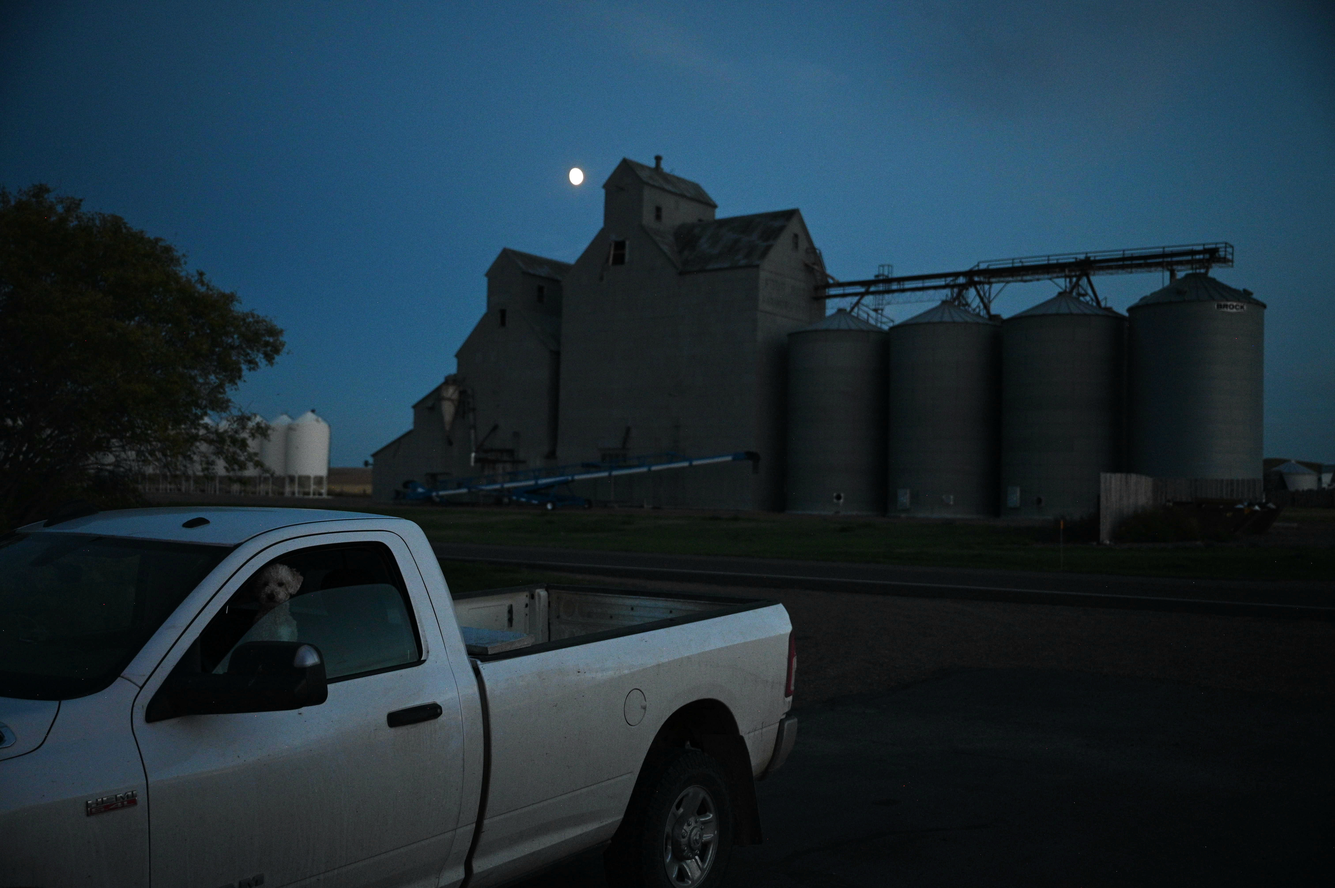
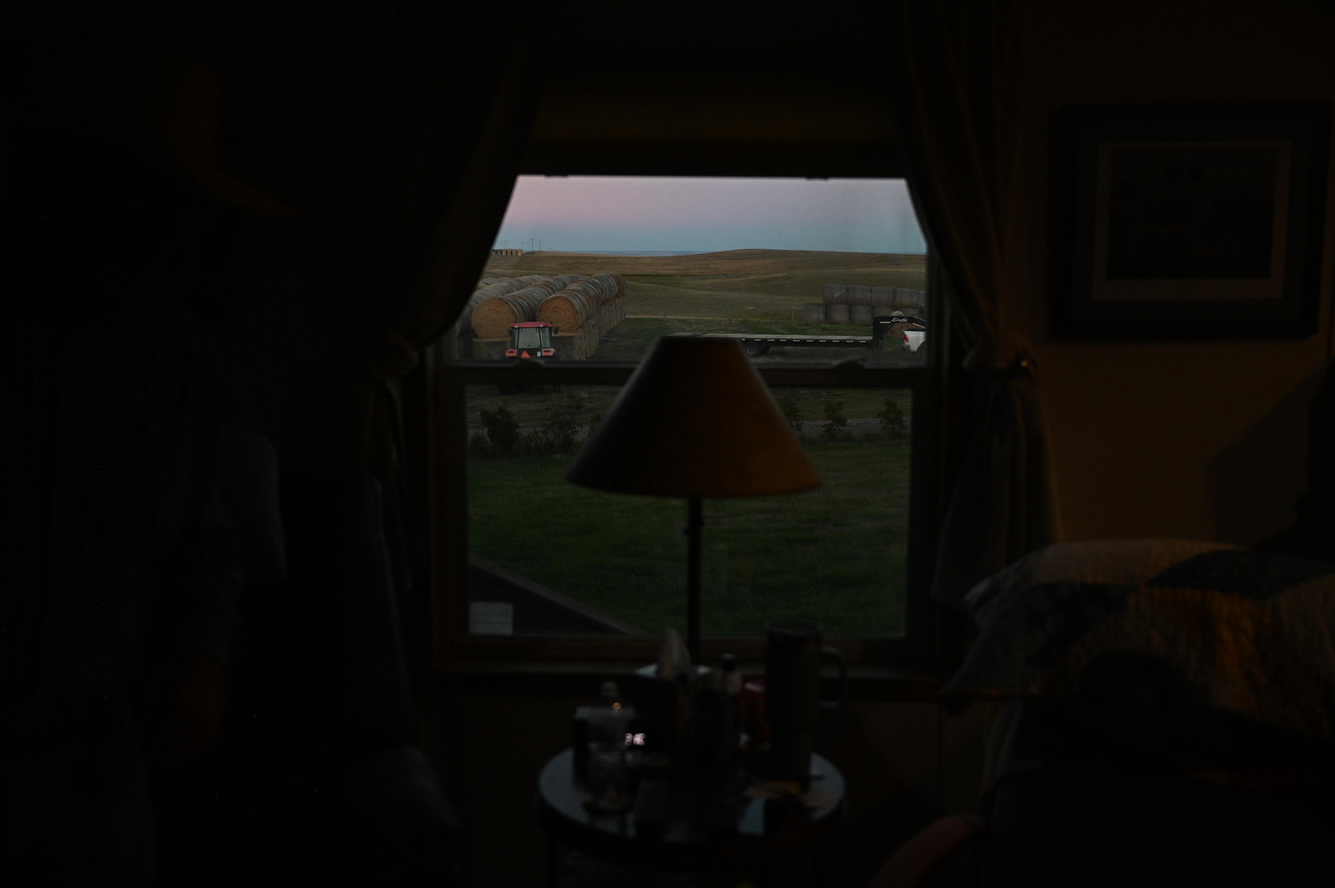
fixed duplicate photo

diff --git a/tests/interactive.spec.js b/tests/interactive.spec.js
@@ -277,7 +277,7 @@ for (const [width, height] of [[1200, 700], [1024, 768], [820, 1180], [768, 1024
     await page.getByRole('button', { name: 'Next photograph' }).click();
     await expect(page.locator('#photo-count')).toHaveText('2 / 4');
     await expect(page.locator('#photo-frame img')).toBeVisible();
-    await expect(page.locator('#photo-frame img')).toHaveCSS('object-fit', 'cover');
+    await expect(page.locator('#photo-frame img')).toHaveCSS('object-fit', width < 900 ? 'contain' : 'cover');
     await page.screenshot({ path: testInfo.outputPath('selected.png') });
   });
 }
@@ -426,7 +426,7 @@ for (const width of [390, 1200]) {
     await page.getByRole('button', { name: 'Next photograph' }).click();
     await expect(expand).toBeVisible();
     expect(await page.locator('.viewer-header').boundingBox()).toEqual(header);
-    expect(await page.locator('#photo-frame').boundingBox()).toEqual(frame);
+    if (width >= 900) expect(await page.locator('#photo-frame').boundingBox()).toEqual(frame);
     await selectProfile(page, 'demo-d');
     await expect(expand).toBeHidden();
   });
@@ -590,5 +590,38 @@ for (const width of [390, 1200]) {
     await expect(dialog.locator('img')).toBeVisible();
     await expect(dialog.locator('img')).toHaveAttribute('src', people.find(person => person.id === 'kleeman').photos[1].fullSrc);
     expect(requests.filter(url => url.includes('-full.webp'))).toHaveLength(2);
+  });
+}
+
+
+for (const [width, height] of [[390, 844], [320, 460], [820, 1180]]) {
+  test(`mobile landscape previews show the whole image at ${width}×${height}`, async ({ page }, testInfo) => {
+    await page.setViewportSize({ width, height });
+    await page.unroute('**/src/people.js');
+    await page.unroute('**/data/people.geojson');
+    await openMap(page);
+    await selectProfile(page, 'kleeman');
+    await expect(page.locator('#photo-frame img')).toBeVisible();
+    const header = await page.locator('.viewer-header').boundingBox();
+    const map = await page.locator('.map-viewport').boundingBox();
+    await page.getByRole('button', { name: 'Next photograph', exact: true }).click();
+    const img = page.locator('#photo-frame img');
+    await expect(img).toBeVisible();
+    await expect(img).toHaveCSS('object-fit', 'contain');
+    const dimensions = await img.evaluate(image => {
+      const frame = image.closest('.photo-frame').getBoundingClientRect();
+      const content = document.querySelector('.viewer-content').getBoundingClientRect();
+      const expectedHeight = Math.min(frame.width * image.naturalHeight / image.naturalWidth, Math.max(80, content.height - 56));
+      return { actual: frame.height, expected: expectedHeight, fits: frame.bottom <= content.bottom };
+    });
+    expect(dimensions.actual).toBeCloseTo(dimensions.expected, 0);
+    expect(dimensions.fits).toBe(true);
+    expect(await page.locator('.viewer-header').boundingBox()).toEqual(header);
+    expect(await page.locator('.map-viewport').boundingBox()).toEqual(map);
+    await expect(page.getByRole('button', { name: 'Next photograph', exact: true })).toBeInViewport();
+    await page.screenshot({ path: testInfo.outputPath('landscape-preview.png') });
+    await page.getByRole('button', { name: 'Previous photograph', exact: true }).click();
+    await expect(img).toBeVisible();
+    await expect(page.locator('#photo-frame')).not.toHaveClass(/is-landscape/);
   });
 }

diff --git a/src/gallery.js b/src/gallery.js
@@ -84,12 +84,19 @@ export function createGallery(viewer) {
     element.hidden = !value;
   }
 
+  function setPreviewShape(width, height) {
+    const landscape = width > 0 && height > 0 && width >= height;
+    frame.classList.toggle('is-landscape', landscape);
+    frame.style.setProperty('--photo-aspect-ratio', landscape ? `${width} / ${height}` : '1');
+  }
+
   function render() {
     expand.hidden = true;
     const currentRevision = ++revision;
     frame.querySelector('img')?.remove();
     adjacentImages = [];
     const photo = photos[index];
+    setPreviewShape(photo?.width, photo?.height);
     controls.hidden = photos.length < 2;
     count.textContent = photos.length > 1 ? `${index + 1} / ${photos.length}` : '';
     optionalText(caption, photo?.caption);
@@ -109,6 +116,7 @@ export function createGallery(viewer) {
       frame.setAttribute('aria-busy', 'false');
       message.hidden = true;
       img.hidden = false;
+      setPreviewShape(img.naturalWidth, img.naturalHeight);
       img.classList.toggle('is-landscape', img.naturalWidth >= img.naturalHeight);
       expand.hidden = false;
 

diff --git a/src/style.css b/src/style.css
@@ -104,8 +104,16 @@ figcaption { padding: 16px 20px; font-size: var(--panel-caption-size); line-heig
   .viewer h2 { font-size: 23px; line-height: 1.15; }
   .person-location { margin-top: 3px; line-height: 1.3; }
   /* Share extra screen height between the map and the scrollable photo panel. */
-  .viewer-content { scrollbar-gutter: auto; }
+  .viewer-content { scrollbar-gutter: auto; container-type: size; }
   .photo-frame { height: var(--photo-height); }
+  /* Fit the complete landscape image, reserving room for the carousel controls.
+     Container height follows the panel, not the entire phone viewport. */
+  .photo-frame.is-landscape {
+    height: auto;
+    aspect-ratio: var(--photo-aspect-ratio);
+    max-height: max(80px, calc(100cqh - 56px));
+  }
+  .photo-frame.is-landscape img { position: absolute; inset: 0; object-fit: contain; }
   .photo-message { padding: 12px; }
   .carousel-controls { padding: 3px 12px; }
   figcaption { padding: 10px 14px; }

diff --git a/README.md b/README.md
@@ -189,7 +189,7 @@ export const people = [{
 }];
 ```
 
-Photograph URLs resolve relative to the document, so `./photos/...` works from `/pipeline/index.html`. Put files directly in `public/photos/`; Vite copies this directory to `dist/photos/`. Use descriptive alt text for every image. Preprocess newsroom photos to approximately 1,200–1,600 pixels on the long edge, preferably WebP. Landscape previews fill the frame with a centered crop; portrait previews fit without cropping and are centered with blank space on either side. The enlarged viewer always shows the full image; portrait and landscape photographs both work without changing the header dimensions. The expand control opens a keyboard-accessible viewer covering the entire interactive, including inside an iframe, without requiring fullscreen permission. Use the enlarged viewer’s arrows or keyboard Left/Right keys to move through photographs, wrapping at either end. Its counter, caption, and underlying preview stay synchronized. Close with × or Escape to return to the same photograph. There is no transformation service.
+Photograph URLs resolve relative to the document, so `./photos/...` works from `/pipeline/index.html`. Put files directly in `public/photos/`; Vite copies this directory to `dist/photos/`. Use descriptive alt text for every image. Preprocess newsroom photos to approximately 1,200–1,600 pixels on the long edge, preferably WebP. Desktop landscape previews fill the frame with a centered crop; mobile landscape previews grow to their aspect ratio and show the full photo, scaling down on short screens to keep the carousel controls visible; portrait previews fit without cropping and are centered with blank space on either side. The enlarged viewer always shows the full image; portrait and landscape photographs both work without changing the header dimensions. The expand control opens a keyboard-accessible viewer covering the entire interactive, including inside an iframe, without requiring fullscreen permission. Use the enlarged viewer’s arrows or keyboard Left/Right keys to move through photographs, wrapping at either end. Its counter, caption, and underlying preview stay synchronized. Close with × or Escape to return to the same photograph. There is no transformation service.
 
 Optional descriptions, locations, captions and credits are omitted when absent. One photograph hides the carousel controls/count. Zero photographs displays a text fallback. Unknown person ids display an unavailable-profile message and preserve the selected location. Malformed/failed location data displays a status message; profiles with other available geometry remain clickable. Failed route data produces a clear message; the app does not pretend to show a valid route.
 
